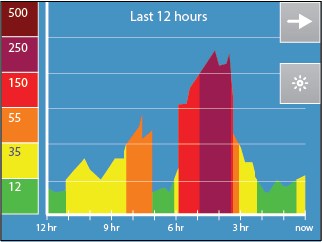
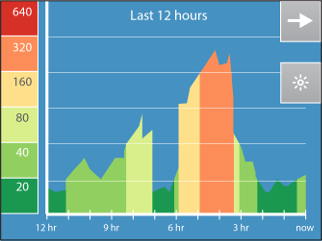
- Updated more graphics based on latest Speck UI - Tweaked css on main page bubbles so that the titles fit on one line - Changed hover text for social media buttons - Removed unused graphics

diff --git a/specksensor.org/www/app/assets/stylesheets/speck.css b/specksensor.org/www/app/assets/stylesheets/speck.css
@@ -233,6 +233,7 @@ html, body {
 .rounded_container_title {
   text-align: center;
   font-weight: bold;
+  font-size: 15px;
 }
 
 .rounded_container_content {
